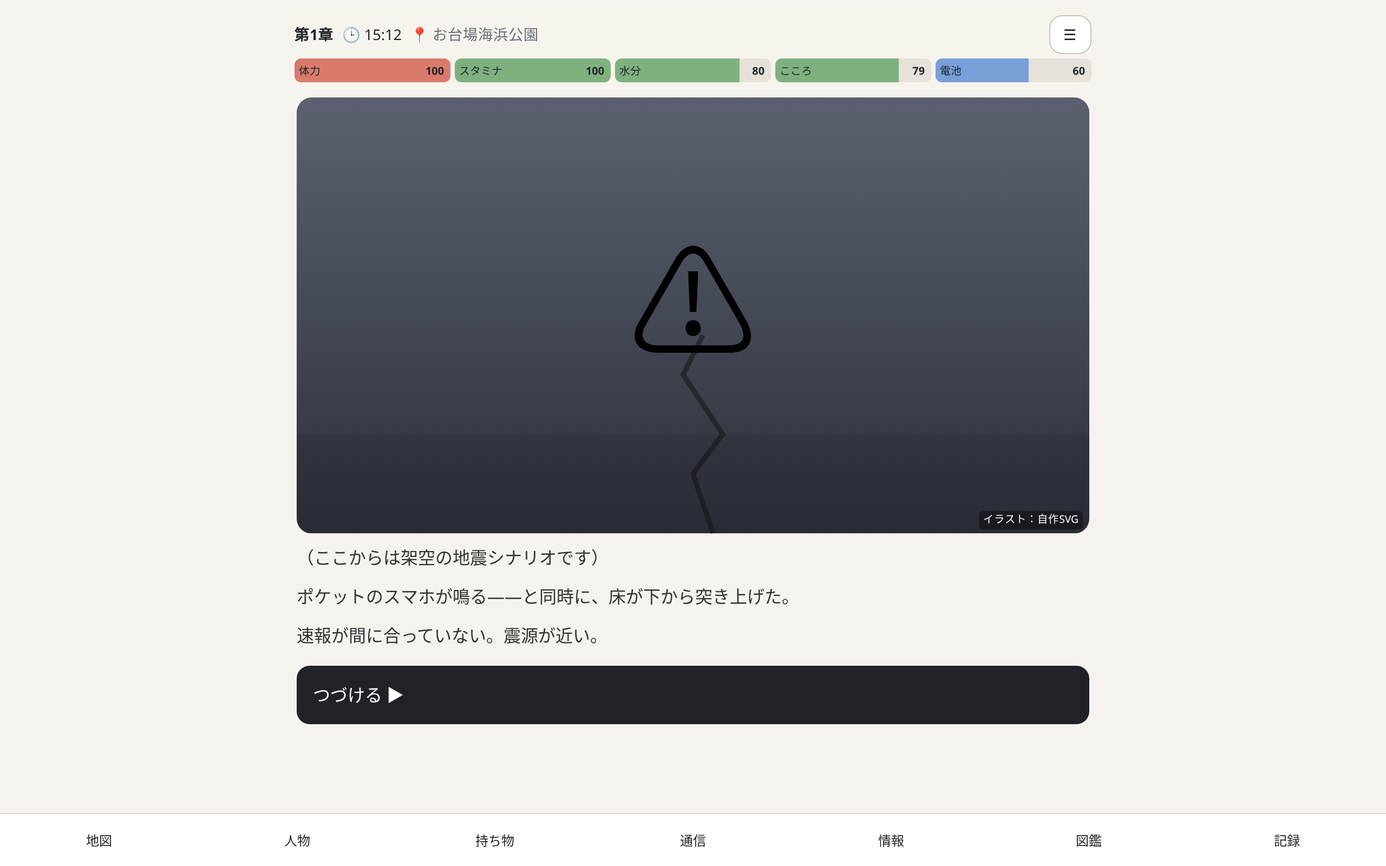
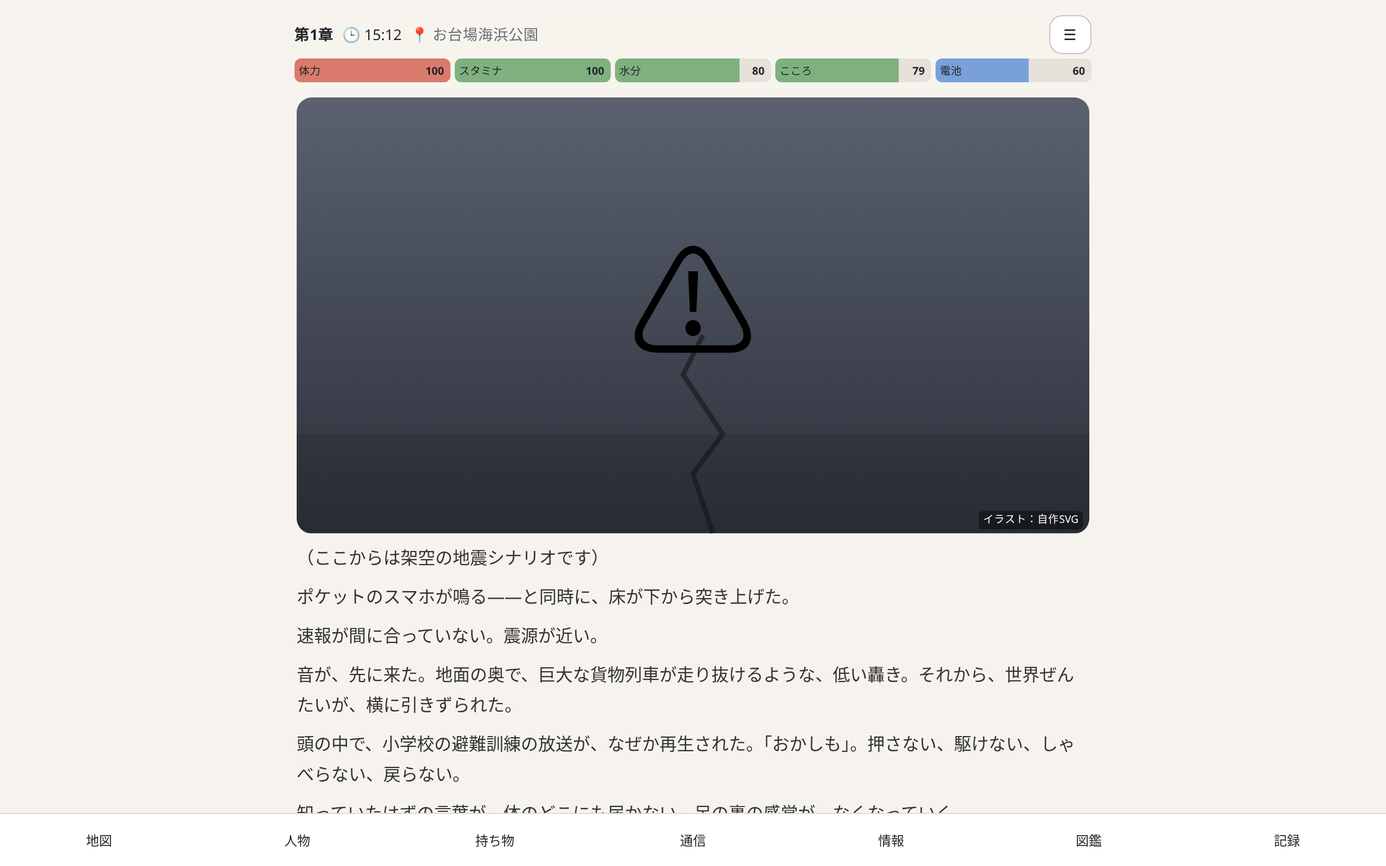
Stage 7: death rate tune, chapter 1 to ~3k chars

Changed region(s): [[0.1875, 0.75, 0.8125, 0.9062], [0.5312, 0.9062, 0.5625, 0.9375], [0.3125, 0.9062, 0.3438, 0.9375]]

diff --git a/src/data/scenes1.ts b/src/data/scenes1.ts
@@ -111,23 +111,26 @@ export const ch1: Scene[] = [
     ['', '音が、先に来た。地面の奥で、巨大な貨物列車が走り抜けるような、低い轟き。それから、世界ぜんたいが、横に引きずられた。'],
     ['', '頭の中で、小学校の避難訓練の放送が、なぜか再生された。「おかしも」。押さない、駆けない、しゃべらない、戻らない。'],
     ['', '知っていたはずの言葉が、体のどこにも届かない。足の裏の感覚が、なくなっていく。'],
+    ['', '周りのスマホが、一斉に、同じ不吉な音を鳴らし始めた。何十台もの警報音が重なって、ひとつの悲鳴のようになった。'],
   ], { setT: 0, fx: 'quake', next: 'c1_where' }),
   S('c1_where', 1, 'quake', [['', '…']], { alt: [{ if: { flag: 'at_elevator' }, goto: 'c1_elev' }, { if: { flag: 'at_beach' }, goto: 'c1_beach' }, { if: {}, goto: 'c1_cafe' }] }),
   S('c1_cafe', 1, 'quake_indoor', [
     ['', '窓ガラスが波打つ。棚から食器が滝のように落ちる。'],
     ['', '隣の席の大学生のグラスが、テーブルの上を滑って、床で砕けた。天井の照明が、振り子のように揺れている。'],
+    ['', '誰かが「机の下！」と叫んだ。店員の声だった。その声で、ようやく、体が言葉を思い出した。'],
     ['拓海', 'うわっ——！'],
     ['', '立っていられない。どうする？'],
   ], { fx: 'quake', choices: [
       C('cover', 'テーブルの下にもぐり、頭を守る', 'c1_end', { icon: '🛡', hint: '低く・守る・動かない', effects: { flag: 'head_protected', know: ['k_drop', 'k_eew'], report: { cat: 'safety', score: 3, note: '揺れの最中、テーブルの下で頭を守った' } } }),
       C('shout', '「拓海、伏せろ！」と叫んでから自分も伏せる', 'c1_end', { icon: '📣', effects: { flag: ['head_protected', 'friend_safe'], npc: { id: 'friend', trust: 10 }, know: 'k_drop', report: { cat: 'safety', score: 3, note: '周囲に声をかけ、自分も身を守った' } } }),
-      C('run', '出口へ走る', 'c1_end', { icon: '🏃', effects: { risk: { kind: 'crowd', level: 22, label: '揺れの中で走り、人と衝突して転倒' }, know: ['k_drop', 'k_crowd'], report: { cat: 'safety', score: -3, note: '揺れの最中に走った（転倒・落下物の危険）' } } }),
-      C('phone', '窓際で家族に電話をかける', 'c1_end', { icon: '📱', effects: { risk: { kind: 'glass', level: 30, label: '窓ガラスが割れて降りかかった' }, know: ['k_window', 'k_comm'], report: { cat: 'safety', score: -3, note: '揺れの最中に窓際で電話をかけようとした' } } }),
+      C('run', '出口へ走る', 'c1_end', { icon: '🏃', effects: { risk: { kind: 'crowd', level: 18, label: '揺れの中で走り、人と衝突して転倒' }, know: ['k_drop', 'k_crowd'], report: { cat: 'safety', score: -3, note: '揺れの最中に走った（転倒・落下物の危険）' } } }),
+      C('phone', '窓際で家族に電話をかける', 'c1_end', { icon: '📱', effects: { risk: { kind: 'glass', level: 24, label: '窓ガラスが割れて降りかかった' }, know: ['k_window', 'k_comm'], report: { cat: 'safety', score: -3, note: '揺れの最中に窓際で電話をかけようとした' } } }),
     ] }),
   S('c1_elev', 1, 'elevator', [
     ['', 'エレベーターが大きく揺れ、ガコン、と止まりかける。'],
     ['', '階の表示が消えた。かごの中には、あなたと拓海と、小さな男の子。'],
     ['', 'ガラスの向こうで、吹き抜けの吊り看板が大きく揺れている。男の子は、悲鳴も上げずに、あなたのズボンの裾をつかんだ。'],
+    ['', 'かごの壁に貼られた「地震時管制運転」のステッカーが目に入った。意味は、知らなかった。'],
   ], { fx: 'quake', choices: [
       C('buttons', '全ての階のボタンを押す', 'c1_elev2', { icon: '🔢', effects: { flag: 'elev_out', know: 'k_elevator', report: { cat: 'safety', score: 3, note: 'エレベーターで全階のボタンを押した' } } }),
       C('pry', 'ドアをこじ開けようとする', 'c1_elev2', { icon: '✋', effects: { flag: 'elev_stuck', risk: { kind: 'fall', level: 18, label: '揺れでかごが動き、手と頭を打った' }, know: 'k_elevator', report: { cat: 'safety', score: -2, note: 'エレベーターのドアを無理にこじ開けようとした' } } }),
@@ -150,10 +153,11 @@ export const ch1: Scene[] = [
     ] }),
   S('c1_beach_pa', 1, 'beach_quake', [
     ['', '{fam2}が砂の上で転び、悲鳴を上げる。'],
+    ['', '繋いでいた手が、揺れに引きはがされた。小さな体が、二歩、三歩と、よろけていく。'],
     ['{fam2}', 'パパぁ！'],
   ], { fx: 'quake', choices: [
       C('cover_child', '{fam2}に覆いかぶさり、自分の頭も腕で守る', 'c1_end', { icon: '🫂', effects: { flag: ['head_protected', 'child_safe'], know: ['k_outdoor', 'k_drop'], report: { cat: 'safety', score: 3, note: '子供に覆いかぶさり、周囲に倒れる物のない場所で身を低くした' } } }),
-      C('carry_run', '{fam2}を抱えてモールへ走る', 'c1_end', { icon: '🏃', effects: { risk: { kind: 'glass', level: 26, label: 'モールの外壁ガラスが落ちてきた' }, know: ['k_outdoor', 'k_window'], report: { cat: 'safety', score: -3, note: '揺れの最中にガラス張りの建物へ走った' } } }),
+      C('carry_run', '{fam2}を抱えてモールへ走る', 'c1_end', { icon: '🏃', effects: { risk: { kind: 'glass', level: 22, label: 'モールの外壁ガラスが落ちてきた' }, know: ['k_outdoor', 'k_window'], report: { cat: 'safety', score: -3, note: '揺れの最中にガラス張りの建物へ走った' } } }),
     ] }),
   S('c1_end', 1, 'mall_damage', [
     ['', '……揺れが、止まった。たぶん一分か、それ以上。時間の感覚がない。'],
@@ -170,11 +174,16 @@ export const ch1: Scene[] = [
   ], { onEnter: { time: 3, mental: -15, know: 'k_liquefaction' }, choices: [C('friend', 'そばにいる人の様子を確かめる', 'c1_friend', { icon: '🧍' })] }),
   S('c1_friend', 1, 'mall_damage', [
     ['拓海', '……いってぇ。大丈夫、かすり傷。お前は？'],
+    ['', '拓海の額に、うっすら血がにじんでいた。本人は、気づいていない。あなたが指さすと、拓海は手の甲でぬぐって、「あ、ほんとだ」と、間の抜けた声を出した。'],
+    ['拓海', '……生きてるな、俺ら。'],
   ], { alt: [{ if: { preset: 'parent' }, goto: 'c1_friend_pa' }], onEnter: { flag: 'friend_with_me' }, next: 'c1_count' }),
   S('c1_friend_pa', 1, 'beach_after', [
     ['{fam2}', '……パパ、こわかった。'],
     ['', 'そこへ、学生時代の友人・拓海が駆けてきた。偶然、近くのイベントの仕事で来ていたという。'],
     ['拓海', '健司！律くんも無事か！'],
+    ['', '拓海は、首から下げたスタッフ証を揺らしながら、息を切らしていた。律の顔をのぞき込み、それから健司の顔を見て、ようやく、肩の力を抜いた。'],
+    ['拓海', '……よかった。マジで、よかった。'],
+    ['', '学生時代、いつも遅刻してきた男が、今日は、誰よりも早く駆けつけてきた。'],
   ], { onEnter: { flag: 'friend_with_me' }, next: 'c1_count' }),
   S('c1_count', 1, 'mall_damage', [
     ['拓海', '……今の、何分あった？'],
@@ -185,10 +194,47 @@ export const ch1: Scene[] = [
     ['', 'スマホの電波表示は、一本と圏外の間を、行ったり来たりしている。バッテリーは、まだ十分ある。——「まだ」。その二文字を、あなたは、生まれて初めて意識した。'],
     ['拓海', 'とりあえず、ここで頭冷やそう。走ったら、たぶん、ろくなことにならない。'],
   ], { onEnter: { know: 'k_shindo_m' }, next: 'c1_after' }),
+  S('c1w_wait', 1, 'mall_damage', [
+    ['', '拓海と並んで、柱の陰にしゃがんだ。コンクリートの冷たさが、背中から伝わってくる。'],
+    ['', '学校には、学校の決まりがある。引き渡しのルール。保護者が迎えに来るまで、子どもは学校で待つ。入学説明会で、そう聞いた。聞いたとき、自分には関係のない話だと思った。'],
+    ['', 'スマホのメモ帳を開いた。「陽菜　学校　引き渡しカード」。いつ書いたのか覚えていないメモが、そこにあった。千夏が書いたのかもしれない。'],
+    ['拓海', '……陽菜ちゃん、何年生だっけ。'],
+    ['', '三年生。そう答えた声が、自分のものではないみたいに、遠かった。'],
+    ['拓海', '三年生なら、もう、ちゃんと机の下に入れるよ。俺の姪っ子、三年のとき、俺より上手かったもん。'],
+    ['', '慰めだと分かっていた。分かっていても、その言葉に、すがりつきたかった。'],
+  ], { choices: [
+      C('memo', '学校の引き渡しの決まりを、メモで確かめておく', 'c1_look', { icon: '📝', effects: { flag: 'c1w_memo', know: 'k_meetpoint' }, result: '「大きな地震のときは、保護者が迎えに来るまで学校で待機」。千夏の字で、そう打ってあった。迎えに行くのは、自分だ。——今すぐ、ではなく、安全に行けるときに。（学校ごとの引き渡しルールは要確認）' }),
+      C('breathe', '目を閉じて、ゆっくり三回、息を吐く', 'c1_look', { icon: '🌬', effects: { mental: 4 }, result: '一回目は、震えていた。二回目も。三回目で、ようやく、自分の心臓の音が聞こえた。' }),
+    ] }),
+  S('c1s_wait', 1, 'mall_damage', [
+    ['', '床に座ると、膝が、勝手に震えた。止めようとしても、止まらない。拓海が、黙って、自分の上着を葵の膝にかけた。'],
+    ['', '画面の中の蓮のメッセージを、何度も読み返す。「港南口のパン屋で待ってる」。あのパン屋は、ガラス張りだった。去年、二人で、塩パンを半分ずつ食べた。'],
+    ['', '蓮は、高校の時、避難訓練をさぼって、屋上で寝ていたと言っていた。笑い話だった。今は、笑えない。'],
+    ['拓海', '葵。……蓮くんだっけ。品川なら、ここより揺れは小さかったかもしれない。分かんないけど。分かんないことは、分かんないままにしとけ。悪い方に決めるな。'],
+    ['', '悪い方に決めるな。その言葉を、葵は、心の中で、三回繰り返した。'],
+    ['', '四回目は、声に出た。小さな声だった。拓海は、聞こえないふりをしてくれた。'],
+  ], { choices: [
+      C('shoes', '靴ひもを結び直し、歩ける準備をしておく', 'c1_look', { icon: '👟', effects: { flag: 'c1s_ready', stamina: 2 }, result: 'ほどけかけていた靴ひもを、きつく、二重に結んだ。指は震えていた。それでも、結べた。結べたことが、小さな自信になった。' }),
+      C('grandma', '祖母の家の電話番号を、手帳で確かめる', 'c1_look', { icon: '📒', effects: { know: 'k_comm' }, result: '手帳の最後のページ。祖母の字で書かれた電話番号。「スマホが壊れたら、これを見なさい」。去年の正月、祖母が無理やり書き込んだページだった。' }),
+    ] }),
+  S('c1p_wait', 1, 'mall_damage', [
+    ['', '律を膝に乗せたまま、健司は、その場に座った。律の心臓が、自分の胸に、小鳥みたいな速さで当たっている。'],
+    ['律', 'パパ、じしん、おわった？'],
+    ['', '終わった、と言いかけて、やめた。また揺れるかもしれない。嘘をついたら、次に揺れた時、律は、パパの言葉を信じなくなる。'],
+    ['健司', '……まだ、ちょっと、揺れるかもしれない。でも、揺れたら、パパがぎゅってする。それは、約束。'],
+    ['律', '……ぎゅって、いたくない？'],
+    ['健司', 'いたくない。ちょっとだけ、きつい。'],
+    ['', '律は、少し考えて、「いいよ」と言った。三歳の「いいよ」は、世界でいちばん重い許可だった。'],
+    ['', '健司は、律の小さな背中に手を当てた。シャツ越しに伝わる体温だけが、この世界で、確かなものだった。'],
+  ], { choices: [
+      C('song', '律の好きな歌を、小さな声で歌う', 'c1_look', { icon: '🎵', effects: { mental: 4, flag: 'c1p_song' }, result: '恐竜の歌。保育園で覚えてきた、メロディの怪しい歌。健司の声は、途中で何度もかすれた。律が、続きを、代わりに歌った。' }),
+      C('look_exit', '周りを見て、頭上に物がない方向と出口を確かめる', 'c1_look', { icon: '🧭', effects: { know: 'k_aftershock' }, result: '割れたガラスの少ない方。上に看板のない方。健司は、律を抱いたまま、目で道をなぞった。次に揺れたら、あそこまで。それだけ決めると、少しだけ、呼吸が楽になった。' }),
+    ] }),
   S('c1_look', 1, 'mall_damage', [
     ['', '顔を上げると、少し離れたところに、年配の女性が座り込んでいた。買い物袋の中身が、足元に散らばっている。オレンジが一つ、ゆっくり転がって、あなたの足に当たって止まった。'],
     ['', '女性は、自分の手を見つめていた。けがは、なさそうだった。ただ、立ち上がり方を忘れてしまったみたいに、動かない。'],
     ['', 'まわりの誰もが、自分のスマホを見ていた。あなたも、さっきまで、そうだった。'],
+    ['', '女性の膝の上で、小さな財布が開いたままになっている。中から、孫らしい子どもの写真がのぞいていた。'],
   ], { choices: [
       C('voice', 'オレンジを拾って、「大丈夫ですか。けがはないですか」と声をかける', 'c1_look2', { icon: '🍊', effects: { flag: 'c1_helped_lady', mental: 3, report: { cat: 'care', score: 2, note: '発災直後、座り込んだ人に声をかけた' } }, result: '女性は、はっとしたように顔を上げた。「……ええ、ええ。ありがとう。ちょっと、腰が抜けちゃって」。手を貸すと、女性は、思ったより軽かった。「あなたも、気をつけてね」。（声かけの方法は一般的な配慮。応急対応の詳細は要監修）' }),
       C('watch', '自分のことで精一杯。目だけで様子を確かめる', 'c1_look2', { icon: '👁', result: '女性のそばに、店員が駆け寄るのが見えた。よかった、と思った。思ってから、その「よかった」が、少しだけ、恥ずかしかった。' }),
@@ -196,9 +242,13 @@ export const ch1: Scene[] = [
   S('c1_look2', 1, 'mall_damage', [
     ['', 'オレンジの、甘い匂いがした。こんな時に、と思うくらい、場違いに、いい匂いだった。'],
     ['', 'あとになって、この日のことを思い出すたび、最初に浮かぶのは、揺れでも煙でもなく、この匂いだった。'],
+    ['', '遠くで、サイレンが鳴り始めた。一台。二台。それから、数えるのをやめた。'],
   ], { next: 'c1_selfcheck' }),
   S('c1_selfcheck', 1, 'mall_damage', [
     ['', '自分の体を確かめる。'],
+    ['', '指。動く。腕。動く。膝が、じんじんと痛む。どこかに打ちつけたらしいが、いつ打ったのか、覚えていない。'],
+    ['', '痛みは、あとから来る。救命講習で、そう聞いたことがあった。興奮しているあいだは、けがに気づかないことがある、と。（要監修）'],
+    ['', 'もう一度、ゆっくり、頭のてっぺんから、足の先まで。自分の体を、他人の体みたいに、点検していく。'],
   ], {
     choices: [
       C('treat', 'ハンカチで傷を強く押さえて止血する', 'c2_start', { icon: '🩹', if: { anyFlag: ['exposed_glass', 'exposed_crowd', 'exposed_fall'] }, effects: { heal: 'cut_leg', time: 5, know: 'k_bleeding', report: { cat: 'aid', score: 2, note: '自分の出血をすぐ圧迫止血した' } } }),

diff --git a/src/data/scenes0x.ts b/src/data/scenes0x.ts
@@ -159,8 +159,8 @@ export const ch1x: Scene[] = [
     ['', '財布の中に、陽菜が描いた家族の絵が、四つ折りで入っている。三人とも、同じ大きさで、同じ笑い方をしている。それを、取り出す勇気が出なかった。'],
     ['拓海', '……なあ、また来るかもしれない。ここ、上から何か落ちてきそうだ。少し動こう。'],
   ], { fx: 'aftershock', choices: [
-      C('move', '落ちてくる物やガラスのない場所へ、低い姿勢のまま移る', 'c1_look', { icon: '🧱', effects: { know: 'k_aftershock', report: { cat: 'safety', score: 1, note: '本震の直後、余震に備えて落下物の少ない場所へ移った' } }, result: '数十秒後、余震が来た。さっきまでいた場所に、何かの破片が落ちて砕けた。拓海と顔を見合わせ、どちらからともなく、深く息を吐いた。' }),
-      C('call', 'すぐに千夏に電話をかける', 'c1_look', { icon: '📱', effects: { battery: -3, mental: -4, know: 'k_comm' }, result: '発信音さえ鳴らない。耳に当てたスマホの向こうは、深い井戸のように無音だった。' }),
+      C('move', '落ちてくる物やガラスのない場所へ、低い姿勢のまま移る', 'c1w_wait', { icon: '🧱', effects: { know: 'k_aftershock', report: { cat: 'safety', score: 1, note: '本震の直後、余震に備えて落下物の少ない場所へ移った' } }, result: '数十秒後、余震が来た。さっきまでいた場所に、何かの破片が落ちて砕けた。拓海と顔を見合わせ、どちらからともなく、深く息を吐いた。' }),
+      C('call', 'すぐに千夏に電話をかける', 'c1w_wait', { icon: '📱', effects: { battery: -3, mental: -4, know: 'k_comm' }, result: '発信音さえ鳴らない。耳に当てたスマホの向こうは、深い井戸のように無音だった。' }),
     ] }),
   S('c1s_after', 1, 'mall_damage', [
     ['', '指が震えて、スマホのロックが三回外れなかった。四回目で開いた画面には、蓮からの未読が一件。地震の直前に届いていた。'],
@@ -170,8 +170,8 @@ export const ch1x: Scene[] = [
     ['', '祖母の顔も浮かんだ。一人で、あの古い家に住んでいる祖母。ガスの元栓を、ちゃんと閉められただろうか。'],
     ['拓海', '葵、大丈夫か。顔、真っ白だぞ。……座れ。とりあえず、頭の上に何もないとこに。'],
   ], { fx: 'aftershock', choices: [
-      C('sit', '拓海に言われるまま、落下物のない場所で低くなる', 'c1_look', { icon: '🧎', effects: { know: 'k_aftershock', npc: { id: 'friend', trust: 5 } }, result: '余震。拓海の手が、葵の後頭部を押さえた。驚くほど大きな手だった。「先輩」なんて呼んでいたこの人も、救命講習を受けたことがあるのだと、あとで聞いた。' }),
-      C('reply', '震える指で、蓮に「無事」と打つ', 'c1_look', { icon: '⌨', effects: { battery: -2, msg: { to: 'fam1', channel: 'sms', text: '無事。お台場。あとで' } }, result: '送信中の丸が、くるくると回り続ける。回り続けることしか、できないみたいに。' }),
+      C('sit', '拓海に言われるまま、落下物のない場所で低くなる', 'c1s_wait', { icon: '🧎', effects: { know: 'k_aftershock', npc: { id: 'friend', trust: 5 } }, result: '余震。拓海の手が、葵の後頭部を押さえた。驚くほど大きな手だった。「先輩」なんて呼んでいたこの人も、救命講習を受けたことがあるのだと、あとで聞いた。' }),
+      C('reply', '震える指で、蓮に「無事」と打つ', 'c1s_wait', { icon: '⌨', effects: { battery: -2, msg: { to: 'fam1', channel: 'sms', text: '無事。お台場。あとで' } }, result: '送信中の丸が、くるくると回り続ける。回り続けることしか、できないみたいに。' }),
     ] }),
   S('c1p_after', 1, 'mall_damage', [
     ['', '律の体は、腕の中で小さく固まっていた。泣いていない。泣くことさえ忘れた顔で、ただ、健司のシャツをつかんでいる。'],
@@ -180,8 +180,8 @@ export const ch1x: Scene[] = [
     ['', '美咲は、今日、病院の夜勤明けで、家で眠っているはずだった。寝室の本棚。あの本棚は、固定していなかった。「今度やるよ」と言って、二年が経っていた。'],
     ['', '律の髪から、砂と、日焼け止めの匂いがした。この匂いを、何があっても、家まで持って帰る。健司は、そう決めた。'],
   ], { fx: 'aftershock', choices: [
-      C('carry', '「靴はあとで。パパが抱っこする」と律を抱え直す', 'c1_look', { icon: '🫂', effects: { stamina: -5, flag: 'ritsu_carried', know: 'k_aftershock', report: { cat: 'safety', score: 1, note: 'ガラス片のある場所で、子どもを裸足で歩かせなかった' } }, result: '律の体重が、両腕に沈んだ。十八キロ。こんなに重かったか、と思った。余震が来て、律を抱えたまま、その場にしゃがみ込んだ。' }),
-      C('wrap', 'ハンカチを律の足に巻き、ガラスの向こうの靴を拾いに行く', 'c1_look', { icon: '👟', effects: { flag: 'ritsu_shoe', time: 5, risk: { kind: 'glass', level: 10, label: '靴を拾うときガラス片で手を切った' } }, result: '指先が靴に触れた瞬間、余震が来た。靴は取れた。手のひらに、細い赤い線が一本走っていた。律が「パパ、いたい？」と聞いた。' }),
+      C('carry', '「靴はあとで。パパが抱っこする」と律を抱え直す', 'c1p_wait', { icon: '🫂', effects: { stamina: -5, flag: 'ritsu_carried', know: 'k_aftershock', report: { cat: 'safety', score: 1, note: 'ガラス片のある場所で、子どもを裸足で歩かせなかった' } }, result: '律の体重が、両腕に沈んだ。十八キロ。こんなに重かったか、と思った。余震が来て、律を抱えたまま、その場にしゃがみ込んだ。' }),
+      C('wrap', 'ハンカチを律の足に巻き、ガラスの向こうの靴を拾いに行く', 'c1p_wait', { icon: '👟', effects: { flag: 'ritsu_shoe', time: 5, risk: { kind: 'glass', level: 10, label: '靴を拾うときガラス片で手を切った' } }, result: '指先が靴に触れた瞬間、余震が来た。靴は取れた。手のひらに、細い赤い線が一本走っていた。律が「パパ、いたい？」と聞いた。' }),
     ] }),
 ];
 

diff --git a/COUNTS.md b/COUNTS.md
@@ -37,3 +37,9 @@
 - 平均プレイ時間: worker 55.3分 / student 59.3分 / parent 59.0分（生存者平均 73.2 / 69.0 / 70.4、最大 87.7分）
 - 死亡率 25.4%、10エンディングすべて到達、295シーン / 308選択肢 / 1,040台詞
 - 追加: c1_count（揺れ直後の時間感覚・震度）、c1_look / c1_look2（座り込んだ人への声かけ）。c1_eew・c1_end・各ルートc1*_after、c2_end、c3_announce に描写を追加
+
+## 段階7（死亡率調整・第1章 約3,000字）
+- 死亡率 25.4% → 24.2%（c1 窓際電話 30→24、走る 22→18、親ルート抱えて走る 26→22）
+- 第1章到達時平均: worker 3,047 / student 2,982 / parent 3,045字
+- 追加: c1w_wait / c1s_wait / c1p_wait（ルート別の待機場面・各2択、危険なし）、c1_eew・c1_friend・c1_friend_pa・c1_selfcheck ほかに描写を追加
+- 生存者平均: 74.8 / 70.8 / 72.4分、10エンディングすべて到達

diff --git a/KNOWN_ISSUES.md b/KNOWN_ISSUES.md
@@ -21,3 +21,6 @@
 - c1_look の声かけ描写は一般的な配慮として記述。応急対応の詳細は「要監修」。
 - 第1章は約2.2千字で、まだ他の章より薄い。
 - 死亡率 25.4% は目標範囲（20〜25%）の上限をわずかに超えている。
+
+## 段階7
+- c1_selfcheck の「興奮中は痛みに気づきにくい」、c1w_wait の学校引き渡しルールは「要監修」（学校ごとに異なる）。
